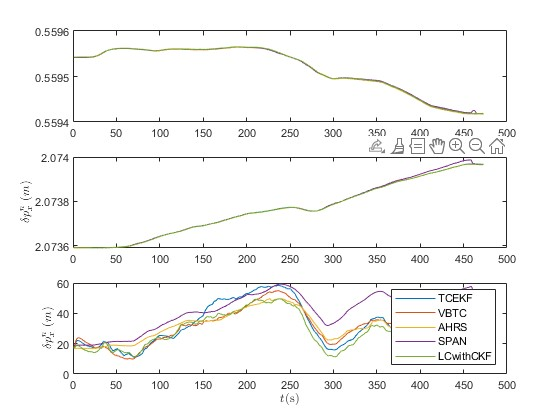
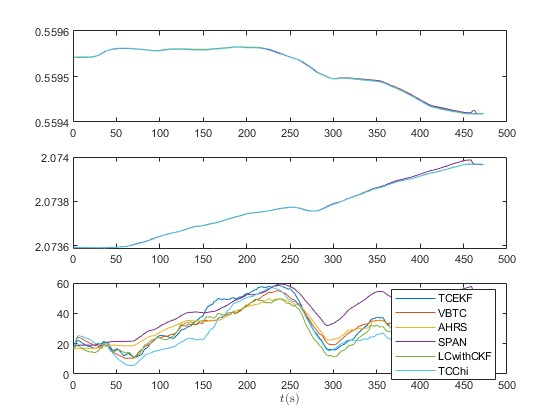
【matlab reivsed】

diff --git a/matlab/ResComp/COMP21.m b/matlab/ResComp/COMP21.m
@@ -73,19 +73,17 @@ xlabel(['$t$(s)'],'Interpreter','latex');
 
 % velocity
 figure('Name', 'velocity');
-subplot(3, 1, 1); plot(seqestRes(1:win, end), [seqestRes(1:win, 4),VBseq(1:win,4),AHRS_res4MINE(1:win,4), SPAN_res(1:win,4),avp(1:win,4)]); hold on; % east
-subplot(3, 1, 2); plot(seqestRes(1:win, end), [seqestRes(1:win, 5),VBseq(1:win,5),AHRS_res4MINE(1:win,5), SPAN_res(1:win,5),avp(1:win,5)]); hold on; % north
-subplot(3, 1, 3); plot(seqestRes(1:win, end), [seqestRes(1:win, 6),VBseq(1:win,6),AHRS_res4MINE(1:win,6), SPAN_res(1:win,6),avp(1:win,6)]); hold on; % up
-legend('TCEKF','VBTC','AHRS','SPAN','LCwithCKF');
+subplot(3, 1, 1); plot(seqestRes(1:win, end), [seqestRes(1:win, 4),VBseq(1:win,4),AHRS_res4MINE(1:win,4), SPAN_res(1:win,4),avp(1:win,4),TCCHIestRes(1:win,4)]); hold on; % east
+subplot(3, 1, 2); plot(seqestRes(1:win, end), [seqestRes(1:win, 5),VBseq(1:win,5),AHRS_res4MINE(1:win,5), SPAN_res(1:win,5),avp(1:win,5),TCCHIestRes(1:win,5)]); hold on; % north
+subplot(3, 1, 3); plot(seqestRes(1:win, end), [seqestRes(1:win, 6),VBseq(1:win,6),AHRS_res4MINE(1:win,6), SPAN_res(1:win,6),avp(1:win,6),TCCHIestRes(1:win,6)]); hold on; % up
+legend('TCEKF','VBTC','AHRS','SPAN','LCwithCKF', 'TCChi');
 % position
 figure('Name', 'position');
-subplot(3, 1, 1); plot(seqestRes(1:win, end), [seqestRes(1:win, 7) + biasLat,VBseq(1:win,7) + biasLat,AHRS_res4MINE(1:win,7), SPAN_res(1:win,7),avp(1:win,7)]); hold on; % latitude
-subplot(3, 1, 2); plot(seqestRes(1:win, end), [seqestRes(1:win, 8) + biasLon,VBseq(1:win,8) + biasLon,AHRS_res4MINE(1:win,8), SPAN_res(1:win,8),avp(1:win,8)]); hold on; % longitude
-ylabel(['$\delta p^n_x$ ($m$)'],'Interpreter','latex');
-subplot(3, 1, 3); plot(seqestRes(1:win, end), [seqestRes(1:win, 9) + biasHigh,VBseq(1:win,9) + biasHigh,AHRS_res4MINE(1:win,9), SPAN_res(1:win,9),avp(1:win,9) + biasHigh]); hold on; % height
-ylabel(['$\delta p^n_x$ ($m$)'],'Interpreter','latex');
+subplot(3, 1, 1); plot(seqestRes(1:win, end), [seqestRes(1:win, 7) + biasLat,VBseq(1:win,7) + biasLat,AHRS_res4MINE(1:win,7), SPAN_res(1:win,7),avp(1:win,7),TCCHIestRes(1:win,7)+ biasLat]); hold on; % latitude
+subplot(3, 1, 2); plot(seqestRes(1:win, end), [seqestRes(1:win, 8) + biasLon,VBseq(1:win,8) + biasLon,AHRS_res4MINE(1:win,8), SPAN_res(1:win,8),avp(1:win,8),TCCHIestRes(1:win,8)+ biasLon]); hold on; % longitude
+subplot(3, 1, 3); plot(seqestRes(1:win, end), [seqestRes(1:win, 9) + biasHigh,VBseq(1:win,9) + biasHigh,AHRS_res4MINE(1:win,9), SPAN_res(1:win,9),avp(1:win,9) + biasHigh,TCCHIestRes(1:win,9)+ biasHigh]); hold on; % height
 xlabel(['$t$(s)'],'Interpreter','latex');
-legend('TCEKF','VBTC','AHRS','SPAN','LCwithCKF');
+legend('TCEKF','VBTC','AHRS','SPAN','LCwithCKF', 'TCChi');
 
 % %% error
 

diff --git a/matlab/PrincipleVerifyByROTModel/test_radar_VBSEQ_CHI_DMN_5d.m b/matlab/PrincipleVerifyByROTModel/test_radar_VBSEQ_CHI_DMN_5d.m
@@ -772,7 +772,7 @@ if (MC_times > 1)
     subplot(222);boxplot([RMSE_VBEKF_R(:,2), RMSE_BIWVBEKF_R(:,2), RMSE_BIWVBEKFSEQ_R(:,2)],items(2:end),"Colors",C);
     set(ylabel(['$R_2$'],'Interpreter','latex'));
     subplot(223);boxplot([RMSE_VBEKF_R(:,3), RMSE_BIWVBEKF_R(:,3), RMSE_BIWVBEKFSEQ_R(:,3)],items(2:end),"Colors",C);
-    set(ylabel(['$R_3$'],'Interpreter','latex'));
+    set(ylabel(['$R_3$'],'Interpreter','latex')); 
     subplot(224);boxplot([RMSE_VBEKF_R(:,4), RMSE_BIWVBEKF_R(:,4), RMSE_BIWVBEKFSEQ_R(:,4)],items(2:end),"Colors",C);
     set(ylabel(['$R_4$'],'Interpreter','latex'));
     sgtitle("Monte-Carlo measurement noise RMSE Value",'Fontsize',10,'Interpreter','Latex');
